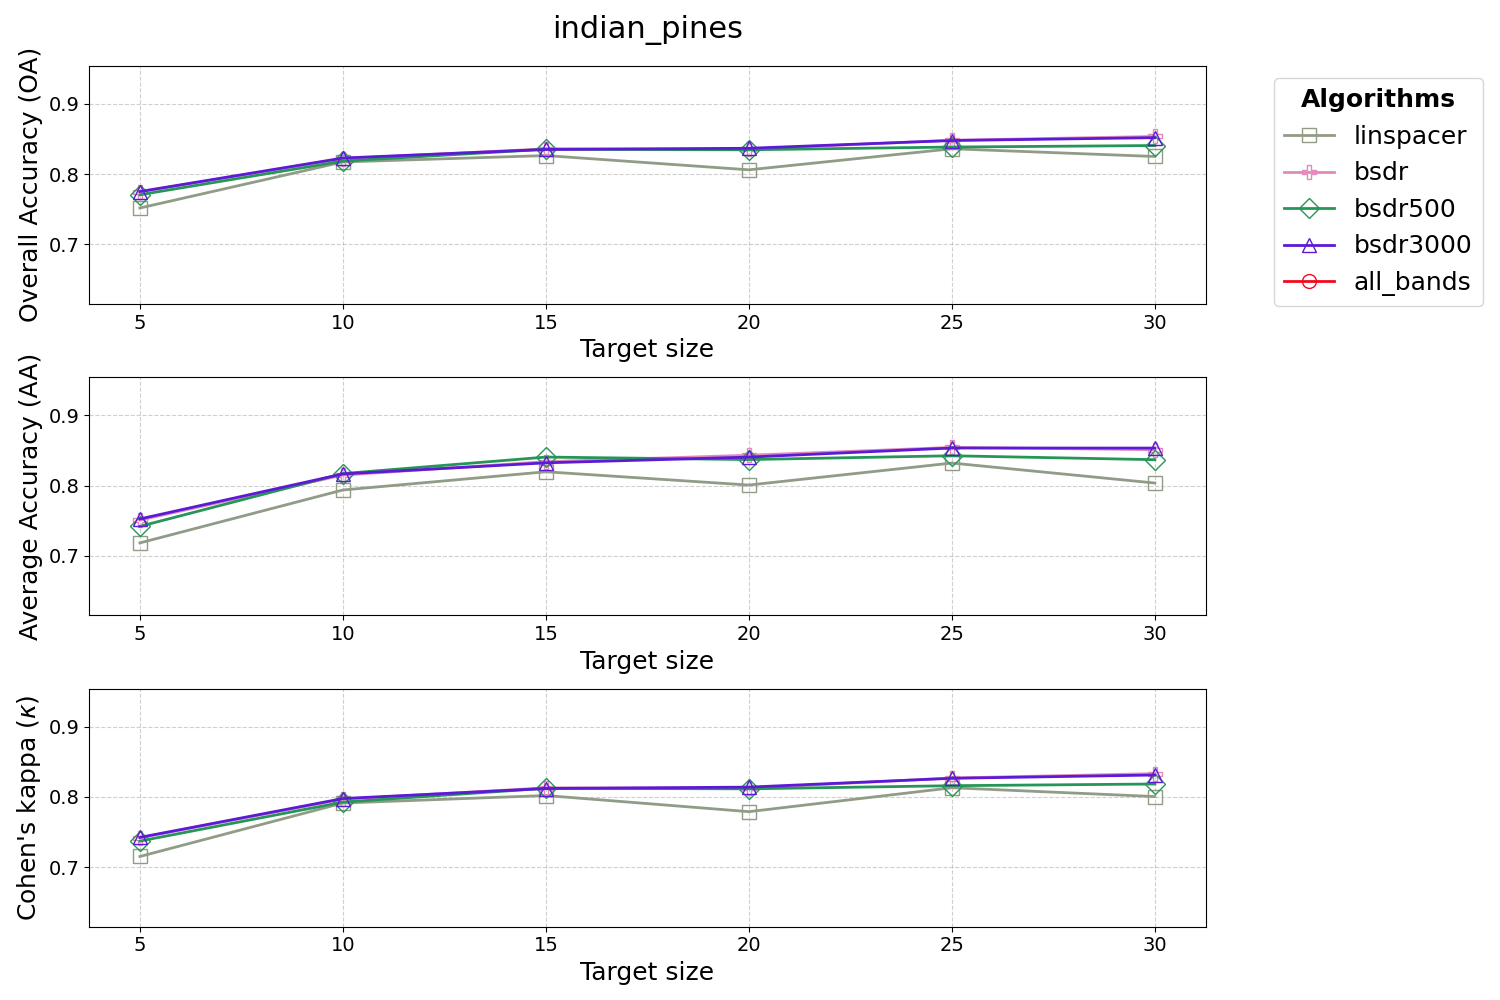
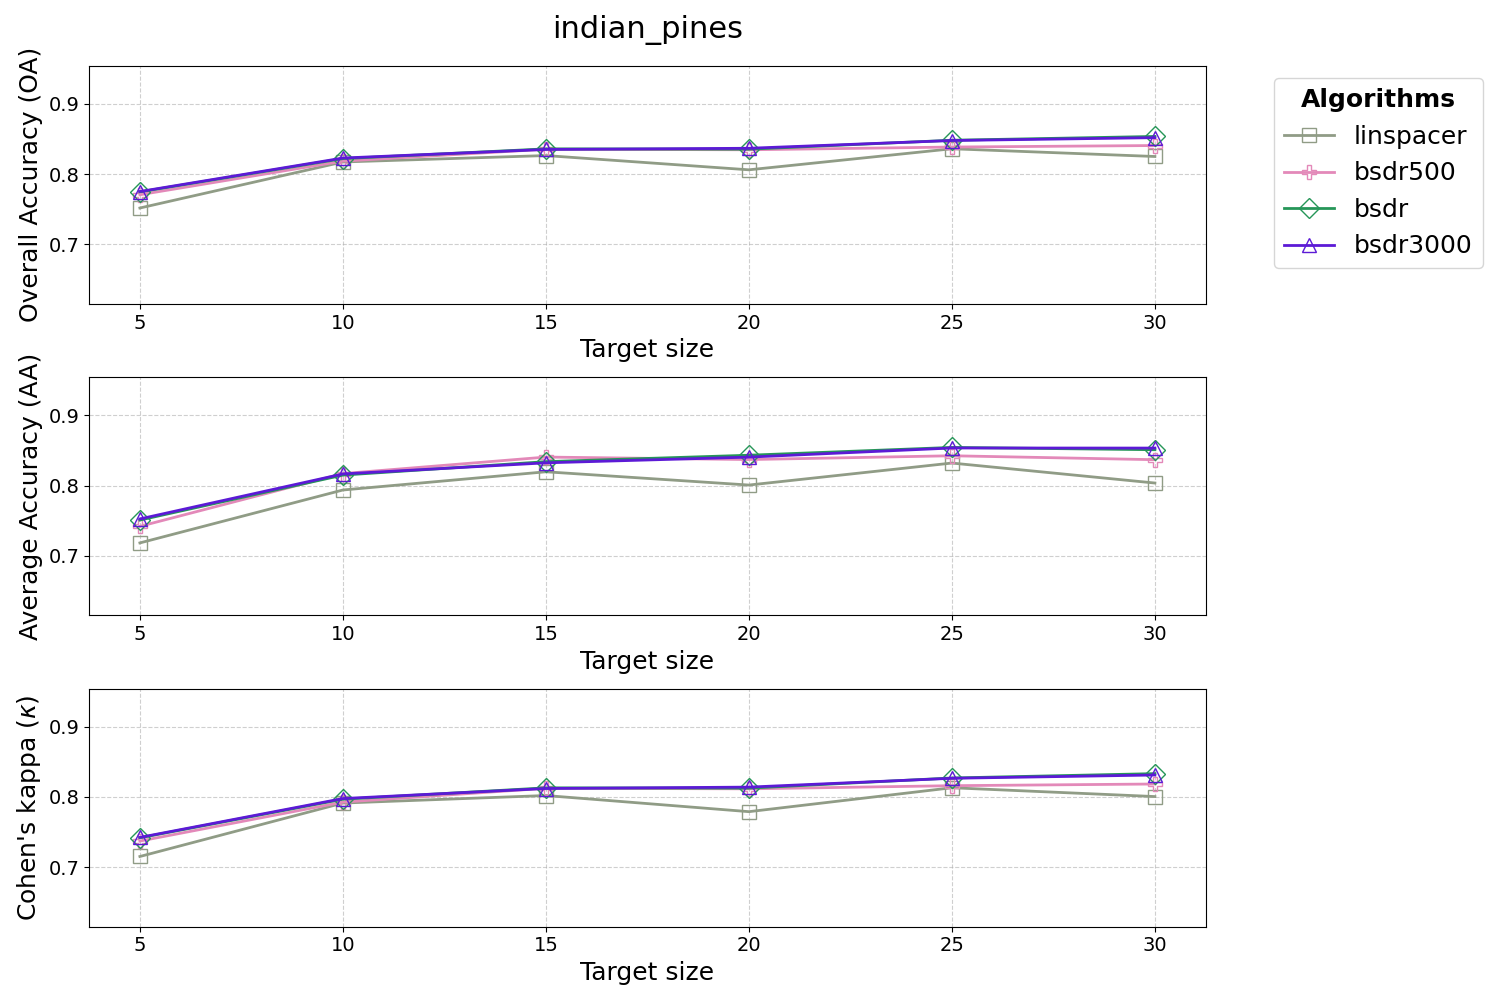
done

diff --git a/oak_plotter.py b/oak_plotter.py
@@ -5,7 +5,7 @@ import matplotlib.pyplot as plt
 
 def plot_oak(source="final_results/final.csv", dest = "saved_figs/oak.png"):
     df_original = pd.read_csv(source)
-    priority_order = ['linspacer', 'bsdr', 'bsdr500', 'bsdr3000', 'all_bands']
+    priority_order = ["linspacer","bsdr500","bsdr","bsdr3000","bsdr4000","bsdr6000"]
     display_alg = priority_order
     df_original['algorithm'] = pd.Categorical(df_original['algorithm'], categories=priority_order, ordered=True)
     df_original = df_original.sort_values('algorithm')
@@ -25,6 +25,8 @@ def plot_oak(source="final_results/final.csv", dest = "saved_figs/oak.png"):
             for index, algorithm in enumerate(priority_order):
                 alg_df = dataset_df[dataset_df["algorithm"] == algorithm]
                 alg_df = alg_df.sort_values(by='target_size')
+                if len(alg_df) == 0:
+                    continue
                 if algorithm == "All Bands":
                     axes[metric_index, ds_index].plot(alg_df['target_size'], alg_df[metric], label=algorithm,
                             linestyle='--', color=colors[index])

diff --git a/oak.py b/oak.py
@@ -2,4 +2,4 @@ import oak_csv_creator
 import oak_plotter
 
 csv = oak_csv_creator.create_csv(filter=["4"])
-oak_plotter.plot_oak()
+oak_plotter.plot_oak(source=csv)
